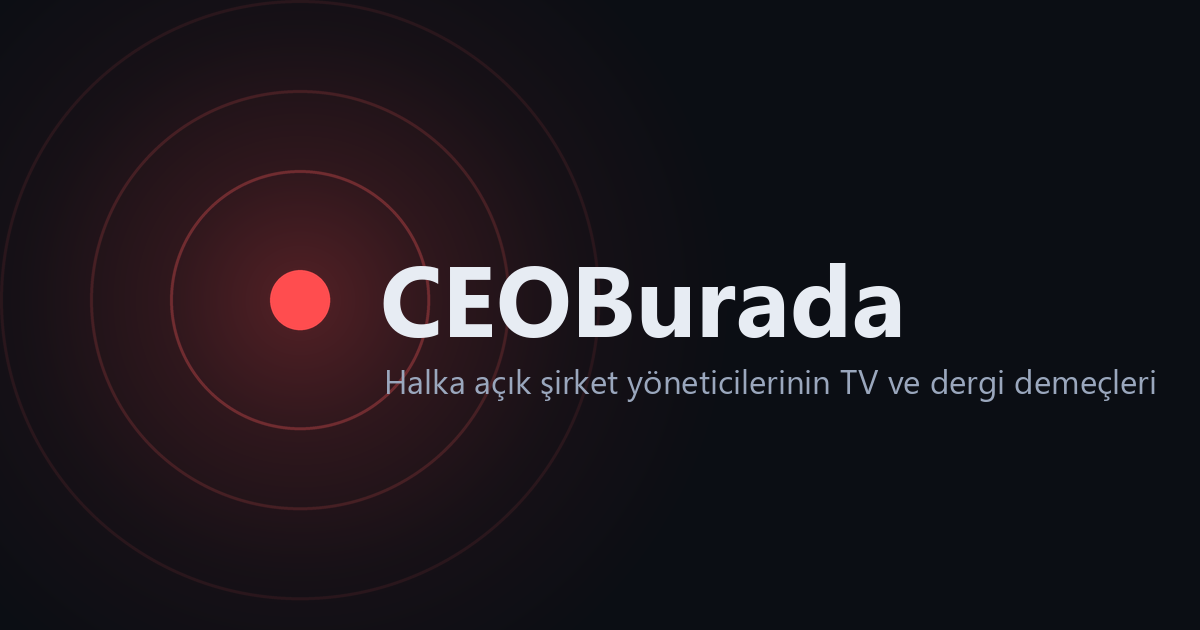
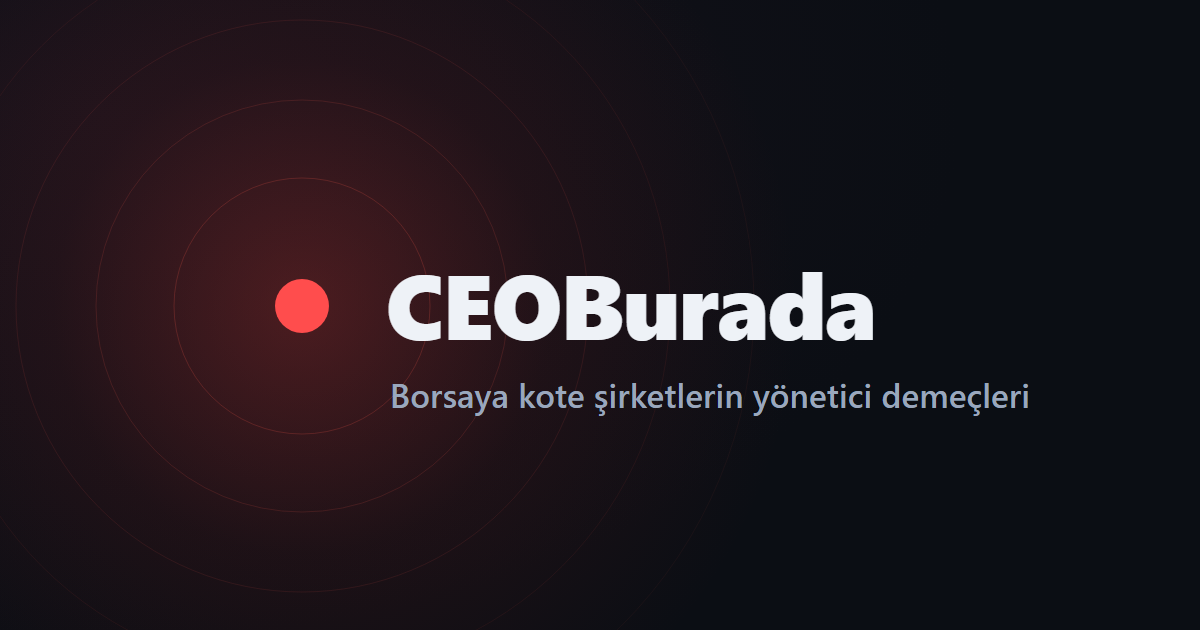
og.png ve tagline: 'Borsaya kote şirketlerin yönetici demeçleri' (küçük harf, marka tutarlılığı)

diff --git a/index.html b/index.html
@@ -14,7 +14,7 @@
 <meta property="og:type" content="website">
 <meta property="og:site_name" content="CEOBurada">
 <meta property="og:title" content="CEOBurada — Yönetici Demeçleri">
-<meta property="og:description" content="Halka açık şirket yöneticilerinin TV ve dergi demeçleri">
+<meta property="og:description" content="Borsaya kote şirketlerin yönetici demeçleri">
 <meta property="og:url" content="https://ceoburada.com/">
 <meta property="og:image" content="https://ceoburada.com/og.png">
 <meta property="og:image:width" content="1200">
@@ -315,7 +315,7 @@
           </div>
         </span>
       </div>
-      <small>BORSAYA KOTE ŞİRKETLERİN YÖNETİCİ DEMEÇLERİ</small>
+      <small>Borsaya kote şirketlerin yönetici demeçleri</small>
     </div>
   </div>
   <div class="tabs" id="tabs">
